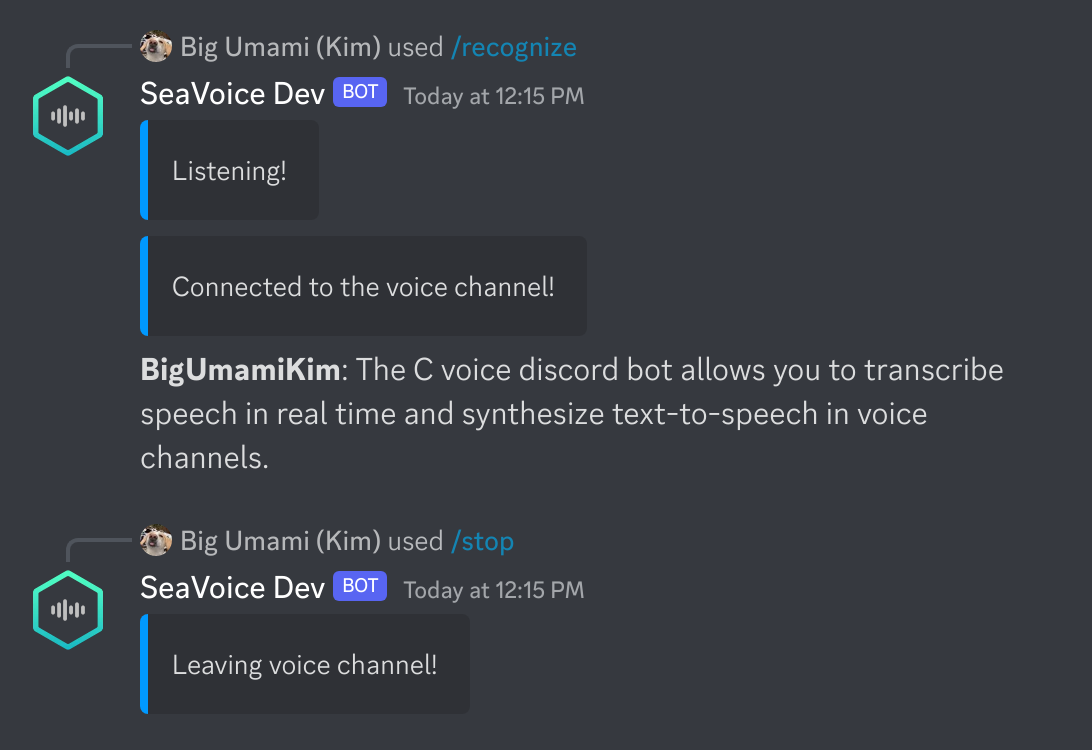
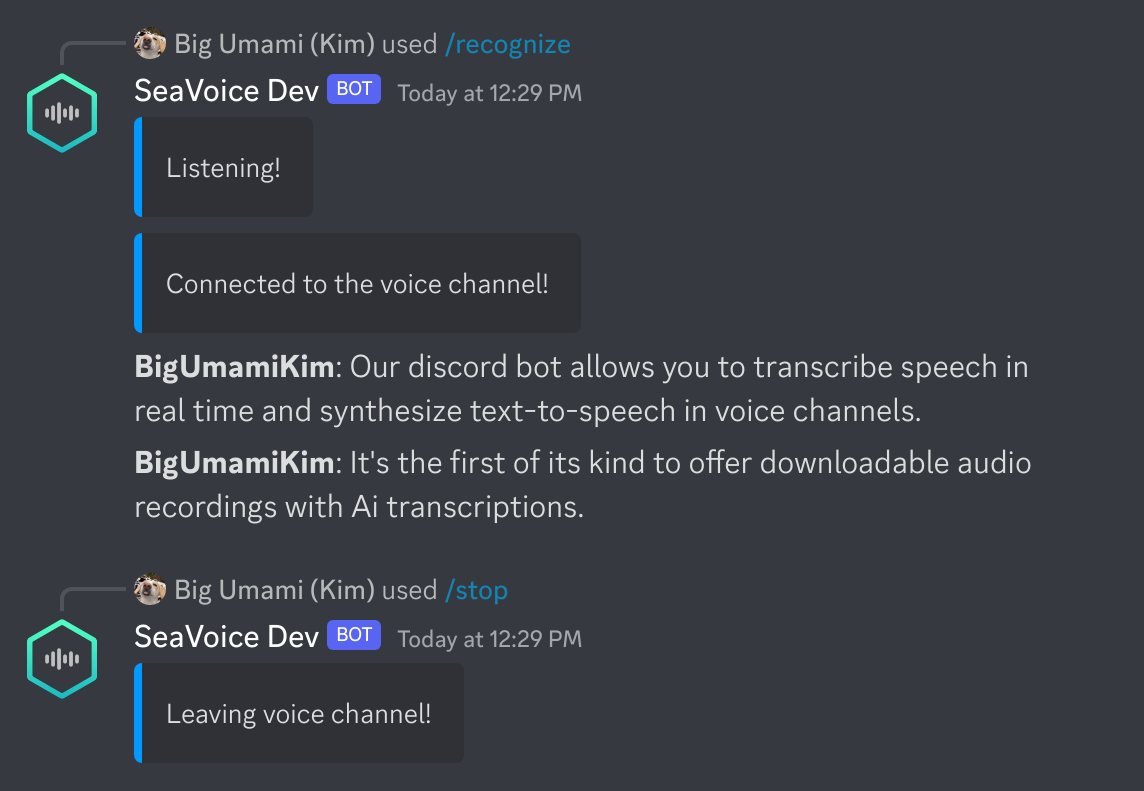
rebuilding site Fri Dec 16 10:19:13 PST 2022

Changed region(s): [[0.0, 0.0307, 0.9341, 0.6747], [0.0, 0.7053, 0.5293, 0.9507]]

diff --git a/blog/26-seavoice-discord-recording-download/index.html b/blog/26-seavoice-discord-recording-download/index.html
@@ -2,12 +2,12 @@
 <script>(function(b,d,e,a,g){b[a]=b[a]||[],b[a].push({'gtm.start':(new Date).getTime(),event:'gtm.js'});var f=d.getElementsByTagName(e)[0],c=d.createElement(e),h=a!='dataLayer'?'&l='+a:'';c.async=!0,c.src='https://www.googletagmanager.com/gtm.js?id='+g+h,f.parentNode.insertBefore(c,f)})(window,document,'script','dataLayer','GTM-N26SF8T')</script>
 <script type=application/ld+json>{"@context":"http://schema.org","@type":"Corporation","url":"https://seasalt.ai/","logo":"https://seasalt.ai/images/logo.png","name":"Seasalt.ai","description":"Seasalt.ai is a Seattle-based Cloud Communication AI company. Try SeaSuite and SeaX, the next-gen voice solution for the contact centers of the future."}</script>
 <meta charset=utf-8>
-<meta name=description content="With the latest release, SeaVoice Discord Bot now offers downloadable voice channel recordings and AI-generated transcriptions.">
+<meta name=description content="With the latest release, SeaVoice Discord Bot is the first on the platform to offer downloadable voice channel recordings with AI-generated transcriptions.">
 <meta name=author content="Sydney Burgess, Kim Dodds, Drake Farmer, Jack Harvison, Dylan Strong, Cody Vernon">
 <meta name=viewport content="width=device-width,initial-scale=1">
 <meta name=generator content="Hugo 0.92.2">
 <title>
-Seavoice Discord Bot: Voice Recording & Transcript Download
+SeaVoice Discord Bot: The First to Provide Downloadable Voice Recording with AI Transcriptions
 </title>
 <link rel="shortcut icon" type=image/x-icon href=https://seasalt.ai/images/favicon.ico>
 <link rel=stylesheet href=https://seasalt.ai/plugins/themefisher-font/style.min.css>
@@ -142,7 +142,7 @@ Book A Demo
 <section class="section single-article">
 <div class=single-article-container>
 <div>
-<h1 class=article-title>Seavoice Discord Bot: Voice Recording & Transcript Download</h1>
+<h1 class=article-title>SeaVoice Discord Bot: The First to Provide Downloadable Voice Recording with AI Transcriptions</h1>
 <ul class=list-inline>
 <li class="btn btn-info" style=border-radius:.5rem>
 <a href=https://seasalt.ai/tags/seavoice/>SeaVoice</a>
@@ -156,7 +156,7 @@ Book A Demo
 <div class=single-article-pic><img class="img-fluid article-picture" src=https://seasalt.ai/images/blog/26-discord-download/thumbnail.jpg alt=blog-image></div>
 </div>
 <div class=post-single-content>
-<p><em>The SeaVoice Discord Bot has been gaining popularity as one of the best options for transcribing speech in Discord voice channels. With the newest release, the bot offers transcription and full voice recording download.</em></p>
+<p><em>The SeaVoice Discord Bot has been gaining popularity as one of the best options for transcribing speech in Discord voice channels. With the newest release, the bot is the first on Discord to offer downloadable voice voice channel recordings with AI-generated transcriptions.</em></p>
 <h1 id=exciting-new-features-in-seavoices-newest-discord-bot-release>Exciting New Features in SeaVoice&rsquo;s Newest Discord Bot Release</h1>
 <p>Hey everyone, we are excited to announce a new feature for the SeaVoice Discord bot!</p>
 <center>
@@ -211,23 +211,23 @@ Feel free to read up on the <a href=https://wiki.seasalt.ai/seavoice/discord/dis
 <div class="resp-sharing-button resp-sharing-button--facebook resp-sharing-button--small"><svg xmlns="http://www.w3.org/2000/svg" viewBox="0 0 24 24"><path d="M18.77 7.46H14.5v-1.9c0-.9.6-1.1 1-1.1h3V.5h-4.33C10.24.5 9.5 3.44 9.5 5.32v2.15h-3v4h3v12h5v-12h3.85l.42-4z"/></svg>
 </div>
 </a>
-<a class=resp-sharing-button__link href="https://twitter.com/intent/tweet/?text=Seavoice%20Discord%20Bot%3a%20Voice%20Recording%20%26%20Transcript%20Download&url=https%3a%2f%2fseasalt.ai%2fblog%2f26-seavoice-discord-recording-download%2f" target=_blank rel=noopener aria-label>
+<a class=resp-sharing-button__link href="https://twitter.com/intent/tweet/?text=SeaVoice%20Discord%20Bot%3a%20The%20First%20to%20Provide%20Downloadable%20Voice%20Recording%20with%20AI%20Transcriptions&url=https%3a%2f%2fseasalt.ai%2fblog%2f26-seavoice-discord-recording-download%2f" target=_blank rel=noopener aria-label>
 <div class="resp-sharing-button resp-sharing-button--twitter resp-sharing-button--small"><svg xmlns="http://www.w3.org/2000/svg" xmlns:xlink="http://www.w3.org/1999/xlink" width="18" height="18" viewBox="0 0 18 18"><defs><clipPath id="clip-path"><rect id="Rectangle_169" data-name="Rectangle 169" width="18" height="18" transform="translate(-933 -4063)" fill="#fff"/></clipPath></defs><g id="Mask_Group_2" data-name="Mask Group 2" transform="translate(933 4063)" clip-path="url(#clip-path)"><path id="Icon_awesome-twitter" data-name="Icon awesome-twitter" d="M14.355 6.619c.01.142.01.284.01.426a9.266 9.266.0 01-9.33 9.33A9.267 9.267.0 010 14.9a6.784 6.784.0 00.792.041 6.567 6.567.0 004.071-1.4A3.285 3.285.0 011.8 11.269a4.135 4.135.0 00.619.051 3.468 3.468.0 00.863-.112A3.28 3.28.0 01.65 7.99V7.949a3.3 3.3.0 001.482.416A3.284 3.284.0 011.117 3.98 9.321 9.321.0 007.878 7.411 3.7 3.7.0 017.8 6.66a3.282 3.282.0 015.675-2.244 6.456 6.456.0 002.081-.792 3.27 3.27.0 01-1.442 1.807A6.574 6.574.0 0016 4.924a7.049 7.049.0 01-1.645 1.7z" transform="translate(-931 -4062.381)" fill="#fff"/></g></svg>
 </div>
 </a>
-<a class=resp-sharing-button__link href="mailto:?subject=Seavoice%20Discord%20Bot%3a%20Voice%20Recording%20%26%20Transcript%20Download&body=https%3a%2f%2fseasalt.ai%2fblog%2f26-seavoice-discord-recording-download%2f" target=_blank rel=noopener aria-label>
+<a class=resp-sharing-button__link href="mailto:?subject=SeaVoice%20Discord%20Bot%3a%20The%20First%20to%20Provide%20Downloadable%20Voice%20Recording%20with%20AI%20Transcriptions&body=https%3a%2f%2fseasalt.ai%2fblog%2f26-seavoice-discord-recording-download%2f" target=_blank rel=noopener aria-label>
 <div class="resp-sharing-button resp-sharing-button--email resp-sharing-button--small"><svg xmlns="http://www.w3.org/2000/svg" viewBox="0 0 24 24"><path d="M22 4H2C.9 4 0 4.9.0 6v12c0 1.1.9 2 2 2h20c1.1.0 2-.9 2-2V6c0-1.1-.9-2-2-2zM7.25 14.43l-3.5 2c-.08.05-.17.07-.25.07-.17.0-.34-.1-.43-.25-.14-.24-.06-.55.18-.68l3.5-2c.24-.14.55-.06.68.18.14.24.06.55-.18.68zm4.75.07c-.1.0-.2-.03-.27-.08l-8.5-5.5c-.23-.15-.3-.46-.15-.7.15-.22.46-.3.7-.14L12 13.4l8.23-5.32c.23-.15.54-.08.7.15.14.23.07.54-.16.7l-8.5 5.5c-.08.04-.17.07-.27.07zm8.93 1.75c-.1.16-.26.25-.43.25-.08.0-.17-.02-.25-.07l-3.5-2c-.24-.13-.32-.44-.18-.68s.44-.32.68-.18l3.5 2c.24.13.32.44.18.68z"/></svg>
 </div>
 </a>
-<a class=resp-sharing-button__link href="https://reddit.com/submit/?url=https%3a%2f%2fseasalt.ai%2fblog%2f26-seavoice-discord-recording-download%2f&resubmit=true&title=Seavoice%20Discord%20Bot%3a%20Voice%20Recording%20%26%20Transcript%20Download" target=_blank rel=noopener aria-label>
+<a class=resp-sharing-button__link href="https://reddit.com/submit/?url=https%3a%2f%2fseasalt.ai%2fblog%2f26-seavoice-discord-recording-download%2f&resubmit=true&title=SeaVoice%20Discord%20Bot%3a%20The%20First%20to%20Provide%20Downloadable%20Voice%20Recording%20with%20AI%20Transcriptions" target=_blank rel=noopener aria-label>
 <div class="resp-sharing-button resp-sharing-button--reddit resp-sharing-button--small"><svg xmlns="http://www.w3.org/2000/svg" viewBox="0 0 24 24"><path d="M24 11.5c0-1.65-1.35-3-3-3-.96.0-1.86.48-2.42 1.24-1.64-1-3.75-1.64-6.07-1.72.08-1.1.4-3.05 1.52-3.7.72-.4 1.73-.24 3 .5C17.2 6.3 18.46 7.5 20 7.5c1.65.0 3-1.35 3-3s-1.35-3-3-3c-1.38.0-2.54.94-2.88 2.22-1.43-.72-2.64-.8-3.6-.25-1.64.94-1.95 3.47-2 4.55-2.33.08-4.45.7-6.1 1.72C4.86 8.98 3.96 8.5 3 8.5c-1.65.0-3 1.35-3 3 0 1.32.84 2.44 2.05 2.84-.03.22-.05.44-.05.66.0 3.86 4.5 7 10 7s10-3.14 10-7c0-.22-.02-.44-.05-.66 1.2-.4 2.05-1.54 2.05-2.84zM2.3 13.37C1.5 13.07 1 12.35 1 11.5c0-1.1.9-2 2-2 .64.0 1.22.32 1.6.82-1.1.85-1.92 1.9-2.3 3.05zm3.7.13c0-1.1.9-2 2-2s2 .9 2 2-.9 2-2 2-2-.9-2-2zm9.8 4.8c-1.08.63-2.42.96-3.8.96-1.4.0-2.74-.34-3.8-.95-.24-.13-.32-.44-.2-.68.15-.24.46-.32.7-.18 1.83 1.06 4.76 1.06 6.6.0.23-.13.53-.05.67.2.14.23.06.54-.18.67zm.2-2.8c-1.1.0-2-.9-2-2s.9-2 2-2 2 .9 2 2-.9 2-2 2zm5.7-2.13c-.38-1.16-1.2-2.2-2.3-3.05.38-.5.97-.82 1.6-.82 1.1.0 2 .9 2 2 0 .84-.53 1.57-1.3 1.87z"/></svg>
 </div>
 </a>
-<a class=resp-sharing-button__link href="whatsapp://send?text=Seavoice%20Discord%20Bot%3a%20Voice%20Recording%20%26%20Transcript%20Download%20https%3a%2f%2fseasalt.ai%2fblog%2f26-seavoice-discord-recording-download%2f" data-action=share/whatsapp/share target=_blank rel=noopener aria-label>
+<a class=resp-sharing-button__link href="whatsapp://send?text=SeaVoice%20Discord%20Bot%3a%20The%20First%20to%20Provide%20Downloadable%20Voice%20Recording%20with%20AI%20Transcriptions%20https%3a%2f%2fseasalt.ai%2fblog%2f26-seavoice-discord-recording-download%2f" data-action=share/whatsapp/share target=_blank rel=noopener aria-label>
 <div class="resp-sharing-button resp-sharing-button--whatsapp resp-sharing-button--small"><svg xmlns="http://www.w3.org/2000/svg" viewBox="0 0 24 24"><path d="M20.1 3.9C17.9 1.7 15 .5 12 .5 5.8.5.7 5.6.7 11.9c0 2 .5 3.9 1.5 5.6L.6 23.4l6-1.6c1.6.9 3.5 1.3 5.4 1.3 6.3.0 11.4-5.1 11.4-11.4-.1-2.8-1.2-5.7-3.3-7.8zM12 21.4c-1.7.0-3.3-.5-4.8-1.3l-.4-.2-3.5 1 1-3.4L4 17c-1-1.5-1.4-3.2-1.4-5.1.0-5.2 4.2-9.4 9.4-9.4 2.5.0 4.9 1 6.7 2.8s2.8 4.2 2.8 6.7c-.1 5.2-4.3 9.4-9.5 9.4zm5.1-7.1c-.3-.1-1.7-.9-1.9-1-.3-.1-.5-.1-.7.1-.2.3-.8 1-.9 1.1-.2.2-.3.2-.6.1s-1.2-.5-2.3-1.4c-.9-.8-1.4-1.7-1.6-2s0-.5.1-.6.3-.3.4-.5c.2-.1.3-.3.4-.5s0-.4.0-.5C10 9 9.3 7.6 9 7c-.1-.4-.4-.3-.5-.3h-.6s-.4.1-.7.3c-.3.3-1 1-1 2.4s1 2.8 1.1 3c.1.2 2 3.1 4.9 4.3.7.3 1.2.5 1.6.6.7.2 1.3.2 1.8.1.6-.1 1.7-.7 1.9-1.3.2-.7.2-1.2.2-1.3-.1-.3-.3-.4-.6-.5z"/></svg>
 </div>
 </a>
-<a class=resp-sharing-button__link href="https://telegram.me/share/url?text=Seavoice%20Discord%20Bot%3a%20Voice%20Recording%20%26%20Transcript%20Download&url=https%3a%2f%2fseasalt.ai%2fblog%2f26-seavoice-discord-recording-download%2f" target=_blank rel=noopener aria-label>
+<a class=resp-sharing-button__link href="https://telegram.me/share/url?text=SeaVoice%20Discord%20Bot%3a%20The%20First%20to%20Provide%20Downloadable%20Voice%20Recording%20with%20AI%20Transcriptions&url=https%3a%2f%2fseasalt.ai%2fblog%2f26-seavoice-discord-recording-download%2f" target=_blank rel=noopener aria-label>
 <div class="resp-sharing-button resp-sharing-button--telegram resp-sharing-button--small"><svg xmlns="http://www.w3.org/2000/svg" xmlns:xlink="http://www.w3.org/1999/xlink" width="18" height="18" viewBox="0 0 18 18"><defs><clipPath id="telegram-clip-path"><rect id="Rectangle_168" data-name="Rectangle 168" width="18" height="18" transform="translate(-933 -4121)" fill="#fff"/></clipPath></defs><g id="Mask_Group_1" data-name="Mask Group 1" transform="translate(933 4121)" clip-path="url(#telegram-clip-path)"><path id="Icon_simple-telegram" data-name="Icon simple-telegram" d="M15.939 4.129 13.531 15.5c-.167.807-.654 1-1.334.627L8.529 13.412 6.755 15.126a.935.935.0 01-.734.373c-.48.0-.4-.18-.56-.634L4.194 10.738.56 9.6c-.787-.23-.794-.77.173-1.163L14.912 2.968c.647-.287 1.267.16 1.02 1.154z" transform="translate(-932.987 -4121.596)" fill="#fff"/></g></svg>
 </div>
 </a>

diff --git a/blog/27-seavoice-discord-backend-improvements/index.html b/blog/27-seavoice-discord-backend-improvements/index.html
@@ -7,7 +7,7 @@
 <meta name=viewport content="width=device-width,initial-scale=1">
 <meta name=generator content="Hugo 0.92.2">
 <title>
-Seavoice Discord Bot: Backend & Stability Improvements
+SeaVoice Discord Bot: Backend & Stability Improvements
 </title>
 <link rel="shortcut icon" type=image/x-icon href=https://seasalt.ai/images/favicon.ico>
 <link rel=stylesheet href=https://seasalt.ai/plugins/themefisher-font/style.min.css>
@@ -142,7 +142,7 @@ Book A Demo
 <section class="section single-article">
 <div class=single-article-container>
 <div>
-<h1 class=article-title>Seavoice Discord Bot: Backend & Stability Improvements</h1>
+<h1 class=article-title>SeaVoice Discord Bot: Backend & Stability Improvements</h1>
 <ul class=list-inline>
 <li class="btn btn-info" style=border-radius:.5rem>
 <a href=https://seasalt.ai/tags/seavoice/>SeaVoice</a>
@@ -180,7 +180,7 @@ With the database framework now firmly in place and used in the production bot, 
 <li>Audio spoken in a voice channel while the bot is performing the <code>/recognize</code> command</li>
 </ul>
 </li>
-<li>This data will only be used by Seasalt.ai improve services</li>
+<li>This data will only be used by Seasalt.ai to improve services</li>
 <li>You can request that any or all of your data is removed at any time</li>
 </ul>
 <p>For full details, please refer to the <a href=https://seasalt.ai/privacy/>Seasalt.ai Privacy Policy</a>.</p>
@@ -204,23 +204,23 @@ Feel free to read up on the <a href=https://wiki.seasalt.ai/seavoice/discord/dis
 <div class="resp-sharing-button resp-sharing-button--facebook resp-sharing-button--small"><svg xmlns="http://www.w3.org/2000/svg" viewBox="0 0 24 24"><path d="M18.77 7.46H14.5v-1.9c0-.9.6-1.1 1-1.1h3V.5h-4.33C10.24.5 9.5 3.44 9.5 5.32v2.15h-3v4h3v12h5v-12h3.85l.42-4z"/></svg>
 </div>
 </a>
-<a class=resp-sharing-button__link href="https://twitter.com/intent/tweet/?text=Seavoice%20Discord%20Bot%3a%20Backend%20%26%20Stability%20Improvements&url=https%3a%2f%2fseasalt.ai%2fblog%2f27-seavoice-discord-backend-improvements%2f" target=_blank rel=noopener aria-label>
+<a class=resp-sharing-button__link href="https://twitter.com/intent/tweet/?text=SeaVoice%20Discord%20Bot%3a%20Backend%20%26%20Stability%20Improvements&url=https%3a%2f%2fseasalt.ai%2fblog%2f27-seavoice-discord-backend-improvements%2f" target=_blank rel=noopener aria-label>
 <div class="resp-sharing-button resp-sharing-button--twitter resp-sharing-button--small"><svg xmlns="http://www.w3.org/2000/svg" xmlns:xlink="http://www.w3.org/1999/xlink" width="18" height="18" viewBox="0 0 18 18"><defs><clipPath id="clip-path"><rect id="Rectangle_169" data-name="Rectangle 169" width="18" height="18" transform="translate(-933 -4063)" fill="#fff"/></clipPath></defs><g id="Mask_Group_2" data-name="Mask Group 2" transform="translate(933 4063)" clip-path="url(#clip-path)"><path id="Icon_awesome-twitter" data-name="Icon awesome-twitter" d="M14.355 6.619c.01.142.01.284.01.426a9.266 9.266.0 01-9.33 9.33A9.267 9.267.0 010 14.9a6.784 6.784.0 00.792.041 6.567 6.567.0 004.071-1.4A3.285 3.285.0 011.8 11.269a4.135 4.135.0 00.619.051 3.468 3.468.0 00.863-.112A3.28 3.28.0 01.65 7.99V7.949a3.3 3.3.0 001.482.416A3.284 3.284.0 011.117 3.98 9.321 9.321.0 007.878 7.411 3.7 3.7.0 017.8 6.66a3.282 3.282.0 015.675-2.244 6.456 6.456.0 002.081-.792 3.27 3.27.0 01-1.442 1.807A6.574 6.574.0 0016 4.924a7.049 7.049.0 01-1.645 1.7z" transform="translate(-931 -4062.381)" fill="#fff"/></g></svg>
 </div>
 </a>
-<a class=resp-sharing-button__link href="mailto:?subject=Seavoice%20Discord%20Bot%3a%20Backend%20%26%20Stability%20Improvements&body=https%3a%2f%2fseasalt.ai%2fblog%2f27-seavoice-discord-backend-improvements%2f" target=_blank rel=noopener aria-label>
+<a class=resp-sharing-button__link href="mailto:?subject=SeaVoice%20Discord%20Bot%3a%20Backend%20%26%20Stability%20Improvements&body=https%3a%2f%2fseasalt.ai%2fblog%2f27-seavoice-discord-backend-improvements%2f" target=_blank rel=noopener aria-label>
 <div class="resp-sharing-button resp-sharing-button--email resp-sharing-button--small"><svg xmlns="http://www.w3.org/2000/svg" viewBox="0 0 24 24"><path d="M22 4H2C.9 4 0 4.9.0 6v12c0 1.1.9 2 2 2h20c1.1.0 2-.9 2-2V6c0-1.1-.9-2-2-2zM7.25 14.43l-3.5 2c-.08.05-.17.07-.25.07-.17.0-.34-.1-.43-.25-.14-.24-.06-.55.18-.68l3.5-2c.24-.14.55-.06.68.18.14.24.06.55-.18.68zm4.75.07c-.1.0-.2-.03-.27-.08l-8.5-5.5c-.23-.15-.3-.46-.15-.7.15-.22.46-.3.7-.14L12 13.4l8.23-5.32c.23-.15.54-.08.7.15.14.23.07.54-.16.7l-8.5 5.5c-.08.04-.17.07-.27.07zm8.93 1.75c-.1.16-.26.25-.43.25-.08.0-.17-.02-.25-.07l-3.5-2c-.24-.13-.32-.44-.18-.68s.44-.32.68-.18l3.5 2c.24.13.32.44.18.68z"/></svg>
 </div>
 </a>
-<a class=resp-sharing-button__link href="https://reddit.com/submit/?url=https%3a%2f%2fseasalt.ai%2fblog%2f27-seavoice-discord-backend-improvements%2f&resubmit=true&title=Seavoice%20Discord%20Bot%3a%20Backend%20%26%20Stability%20Improvements" target=_blank rel=noopener aria-label>
+<a class=resp-sharing-button__link href="https://reddit.com/submit/?url=https%3a%2f%2fseasalt.ai%2fblog%2f27-seavoice-discord-backend-improvements%2f&resubmit=true&title=SeaVoice%20Discord%20Bot%3a%20Backend%20%26%20Stability%20Improvements" target=_blank rel=noopener aria-label>
 <div class="resp-sharing-button resp-sharing-button--reddit resp-sharing-button--small"><svg xmlns="http://www.w3.org/2000/svg" viewBox="0 0 24 24"><path d="M24 11.5c0-1.65-1.35-3-3-3-.96.0-1.86.48-2.42 1.24-1.64-1-3.75-1.64-6.07-1.72.08-1.1.4-3.05 1.52-3.7.72-.4 1.73-.24 3 .5C17.2 6.3 18.46 7.5 20 7.5c1.65.0 3-1.35 3-3s-1.35-3-3-3c-1.38.0-2.54.94-2.88 2.22-1.43-.72-2.64-.8-3.6-.25-1.64.94-1.95 3.47-2 4.55-2.33.08-4.45.7-6.1 1.72C4.86 8.98 3.96 8.5 3 8.5c-1.65.0-3 1.35-3 3 0 1.32.84 2.44 2.05 2.84-.03.22-.05.44-.05.66.0 3.86 4.5 7 10 7s10-3.14 10-7c0-.22-.02-.44-.05-.66 1.2-.4 2.05-1.54 2.05-2.84zM2.3 13.37C1.5 13.07 1 12.35 1 11.5c0-1.1.9-2 2-2 .64.0 1.22.32 1.6.82-1.1.85-1.92 1.9-2.3 3.05zm3.7.13c0-1.1.9-2 2-2s2 .9 2 2-.9 2-2 2-2-.9-2-2zm9.8 4.8c-1.08.63-2.42.96-3.8.96-1.4.0-2.74-.34-3.8-.95-.24-.13-.32-.44-.2-.68.15-.24.46-.32.7-.18 1.83 1.06 4.76 1.06 6.6.0.23-.13.53-.05.67.2.14.23.06.54-.18.67zm.2-2.8c-1.1.0-2-.9-2-2s.9-2 2-2 2 .9 2 2-.9 2-2 2zm5.7-2.13c-.38-1.16-1.2-2.2-2.3-3.05.38-.5.97-.82 1.6-.82 1.1.0 2 .9 2 2 0 .84-.53 1.57-1.3 1.87z"/></svg>
 </div>
 </a>
-<a class=resp-sharing-button__link href="whatsapp://send?text=Seavoice%20Discord%20Bot%3a%20Backend%20%26%20Stability%20Improvements%20https%3a%2f%2fseasalt.ai%2fblog%2f27-seavoice-discord-backend-improvements%2f" data-action=share/whatsapp/share target=_blank rel=noopener aria-label>
+<a class=resp-sharing-button__link href="whatsapp://send?text=SeaVoice%20Discord%20Bot%3a%20Backend%20%26%20Stability%20Improvements%20https%3a%2f%2fseasalt.ai%2fblog%2f27-seavoice-discord-backend-improvements%2f" data-action=share/whatsapp/share target=_blank rel=noopener aria-label>
 <div class="resp-sharing-button resp-sharing-button--whatsapp resp-sharing-button--small"><svg xmlns="http://www.w3.org/2000/svg" viewBox="0 0 24 24"><path d="M20.1 3.9C17.9 1.7 15 .5 12 .5 5.8.5.7 5.6.7 11.9c0 2 .5 3.9 1.5 5.6L.6 23.4l6-1.6c1.6.9 3.5 1.3 5.4 1.3 6.3.0 11.4-5.1 11.4-11.4-.1-2.8-1.2-5.7-3.3-7.8zM12 21.4c-1.7.0-3.3-.5-4.8-1.3l-.4-.2-3.5 1 1-3.4L4 17c-1-1.5-1.4-3.2-1.4-5.1.0-5.2 4.2-9.4 9.4-9.4 2.5.0 4.9 1 6.7 2.8s2.8 4.2 2.8 6.7c-.1 5.2-4.3 9.4-9.5 9.4zm5.1-7.1c-.3-.1-1.7-.9-1.9-1-.3-.1-.5-.1-.7.1-.2.3-.8 1-.9 1.1-.2.2-.3.2-.6.1s-1.2-.5-2.3-1.4c-.9-.8-1.4-1.7-1.6-2s0-.5.1-.6.3-.3.4-.5c.2-.1.3-.3.4-.5s0-.4.0-.5C10 9 9.3 7.6 9 7c-.1-.4-.4-.3-.5-.3h-.6s-.4.1-.7.3c-.3.3-1 1-1 2.4s1 2.8 1.1 3c.1.2 2 3.1 4.9 4.3.7.3 1.2.5 1.6.6.7.2 1.3.2 1.8.1.6-.1 1.7-.7 1.9-1.3.2-.7.2-1.2.2-1.3-.1-.3-.3-.4-.6-.5z"/></svg>
 </div>
 </a>
-<a class=resp-sharing-button__link href="https://telegram.me/share/url?text=Seavoice%20Discord%20Bot%3a%20Backend%20%26%20Stability%20Improvements&url=https%3a%2f%2fseasalt.ai%2fblog%2f27-seavoice-discord-backend-improvements%2f" target=_blank rel=noopener aria-label>
+<a class=resp-sharing-button__link href="https://telegram.me/share/url?text=SeaVoice%20Discord%20Bot%3a%20Backend%20%26%20Stability%20Improvements&url=https%3a%2f%2fseasalt.ai%2fblog%2f27-seavoice-discord-backend-improvements%2f" target=_blank rel=noopener aria-label>
 <div class="resp-sharing-button resp-sharing-button--telegram resp-sharing-button--small"><svg xmlns="http://www.w3.org/2000/svg" xmlns:xlink="http://www.w3.org/1999/xlink" width="18" height="18" viewBox="0 0 18 18"><defs><clipPath id="telegram-clip-path"><rect id="Rectangle_168" data-name="Rectangle 168" width="18" height="18" transform="translate(-933 -4121)" fill="#fff"/></clipPath></defs><g id="Mask_Group_1" data-name="Mask Group 1" transform="translate(933 4121)" clip-path="url(#telegram-clip-path)"><path id="Icon_simple-telegram" data-name="Icon simple-telegram" d="M15.939 4.129 13.531 15.5c-.167.807-.654 1-1.334.627L8.529 13.412 6.755 15.126a.935.935.0 01-.734.373c-.48.0-.4-.18-.56-.634L4.194 10.738.56 9.6c-.787-.23-.794-.77.173-1.163L14.912 2.968c.647-.287 1.267.16 1.02 1.154z" transform="translate(-932.987 -4121.596)" fill="#fff"/></g></svg>
 </div>
 </a>

diff --git a/blog/index.html b/blog/index.html
@@ -166,7 +166,7 @@ View Categories
 <img src=https://seasalt.ai/images/blog/27-discord-backend-improvements/thumbnail.jpg alt=post-image class=img-fluid>
 </div>
 <div class=content>
-<h3><a href=https://seasalt.ai/blog/27-seavoice-discord-backend-improvements/>Seavoice Discord Bot: Backend & Stability Improvements</a></h3>
+<h3><a href=https://seasalt.ai/blog/27-seavoice-discord-backend-improvements/>SeaVoice Discord Bot: Backend & Stability Improvements</a></h3>
 <p>The SeaVoice Discord Bot has been gaining popularity as one of the best options for transcribing speech in Discord voice channels.</p>
 <a class="btn btn-transparent" href=https://seasalt.ai/blog/27-seavoice-discord-backend-improvements/>Read more</a>
 </div>
@@ -178,7 +178,7 @@ View Categories
 <img src=https://seasalt.ai/images/blog/26-discord-download/thumbnail.jpg alt=post-image class=img-fluid>
 </div>
 <div class=content>
-<h3><a href=https://seasalt.ai/blog/26-seavoice-discord-recording-download/>Seavoice Discord Bot: Voice Recording & Transcript Download</a></h3>
+<h3><a href=https://seasalt.ai/blog/26-seavoice-discord-recording-download/>SeaVoice Discord Bot: The First to Provide Downloadable Voice Recording with AI Transcriptions</a></h3>
 <p>The SeaVoice Discord Bot has been gaining popularity as one of the best options for transcribing speech in Discord voice channels.</p>
 <a class="btn btn-transparent" href=https://seasalt.ai/blog/26-seavoice-discord-recording-download/>Read more</a>
 </div>

diff --git a/tags/discord/index.html b/tags/discord/index.html
@@ -163,7 +163,7 @@ Book A Demo
 <img src=https://seasalt.ai/images/blog/27-discord-backend-improvements/thumbnail.jpg alt=post-image class=img-fluid>
 </div>
 <div class=content>
-<h3><a href=https://seasalt.ai/blog/27-seavoice-discord-backend-improvements/>Seavoice Discord Bot: Backend & Stability Improvements</a></h3>
+<h3><a href=https://seasalt.ai/blog/27-seavoice-discord-backend-improvements/>SeaVoice Discord Bot: Backend & Stability Improvements</a></h3>
 <p>The SeaVoice Discord Bot has been gaining popularity as one of the best options for transcribing speech in Discord voice channels.</p>
 <a class="btn btn-transparent" href=https://seasalt.ai/blog/27-seavoice-discord-backend-improvements/>Read more</a>
 </div>
@@ -175,7 +175,7 @@ Book A Demo
 <img src=https://seasalt.ai/images/blog/26-discord-download/thumbnail.jpg alt=post-image class=img-fluid>
 </div>
 <div class=content>
-<h3><a href=https://seasalt.ai/blog/26-seavoice-discord-recording-download/>Seavoice Discord Bot: Voice Recording & Transcript Download</a></h3>
+<h3><a href=https://seasalt.ai/blog/26-seavoice-discord-recording-download/>SeaVoice Discord Bot: The First to Provide Downloadable Voice Recording with AI Transcriptions</a></h3>
 <p>The SeaVoice Discord Bot has been gaining popularity as one of the best options for transcribing speech in Discord voice channels.</p>
 <a class="btn btn-transparent" href=https://seasalt.ai/blog/26-seavoice-discord-recording-download/>Read more</a>
 </div>

diff --git a/tags/seavoice/index.html b/tags/seavoice/index.html
@@ -163,7 +163,7 @@ Book A Demo
 <img src=https://seasalt.ai/images/blog/27-discord-backend-improvements/thumbnail.jpg alt=post-image class=img-fluid>
 </div>
 <div class=content>
-<h3><a href=https://seasalt.ai/blog/27-seavoice-discord-backend-improvements/>Seavoice Discord Bot: Backend & Stability Improvements</a></h3>
+<h3><a href=https://seasalt.ai/blog/27-seavoice-discord-backend-improvements/>SeaVoice Discord Bot: Backend & Stability Improvements</a></h3>
 <p>The SeaVoice Discord Bot has been gaining popularity as one of the best options for transcribing speech in Discord voice channels.</p>
 <a class="btn btn-transparent" href=https://seasalt.ai/blog/27-seavoice-discord-backend-improvements/>Read more</a>
 </div>
@@ -175,7 +175,7 @@ Book A Demo
 <img src=https://seasalt.ai/images/blog/26-discord-download/thumbnail.jpg alt=post-image class=img-fluid>
 </div>
 <div class=content>
-<h3><a href=https://seasalt.ai/blog/26-seavoice-discord-recording-download/>Seavoice Discord Bot: Voice Recording & Transcript Download</a></h3>
+<h3><a href=https://seasalt.ai/blog/26-seavoice-discord-recording-download/>SeaVoice Discord Bot: The First to Provide Downloadable Voice Recording with AI Transcriptions</a></h3>
 <p>The SeaVoice Discord Bot has been gaining popularity as one of the best options for transcribing speech in Discord voice channels.</p>
 <a class="btn btn-transparent" href=https://seasalt.ai/blog/26-seavoice-discord-recording-download/>Read more</a>
 </div>
